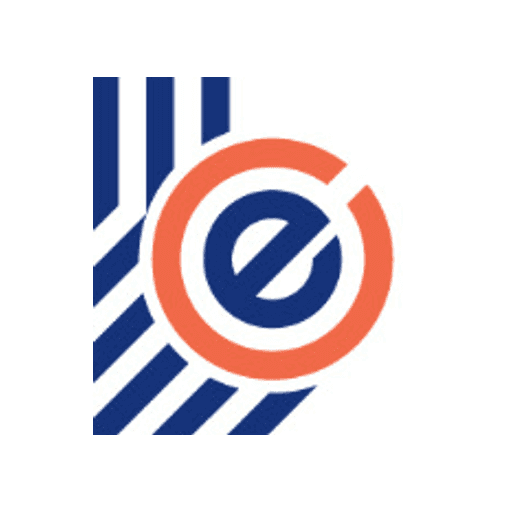
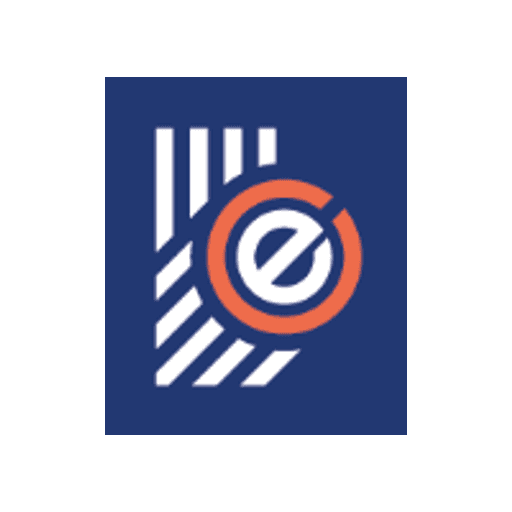
se cambio la paletta de colores

diff --git a/src/components/NavBar.tsx b/src/components/NavBar.tsx
@@ -1,23 +1,34 @@
 
-import { AppBar, CssBaseline, Toolbar,} from "@mui/material"
-import Logo from "../assets/navLogo.jpg"
+import { AppBar, Toolbar, useMediaQuery,} from "@mui/material"
+import Logo from "../assets/logo_nuevo.png"
 import { Outlet } from 'react-router-dom'
 
 
-//
+
 
 
 function NavBar() {
+
+
+
+
+  const matches = useMediaQuery('(min-width:600px)');
+
+
+
+
+
   return (
    <>
-    <header style={{position:"sticky"}}>
-     <AppBar position="sticky" color="info" >
+   
+     <AppBar position="sticky" color="primary" >
      
       <Toolbar sx={{display:"flex", justifyContent:"space-around"}}  >
       <div className="logo-cont" >
       <img src={Logo} alt="Logo de la escuela" className='navbarLogo' />
       </div>
-        <nav className='navbar'>
+        {matches ? (
+          <nav className='navbar'>
           <ul>
             <li><a href="">HOME</a></li>
             <li><a href="">NUESTRA ESCUELA</a></li>
@@ -26,14 +37,16 @@ function NavBar() {
             <li><a href="">NUESTROS PROFESORES</a></li>
             <li><a href="">CONTACTO</a></li>
           </ul>
-        </nav>
+        </nav>) : null
+        }
       </Toolbar>
      </AppBar>
     
-    </header>
+    
     <Outlet/>
    </>
   )
 }
 
 export default NavBar
+

diff --git a/src/assets/css/index.scss b/src/assets/css/index.scss
@@ -12,8 +12,8 @@
     box-sizing: border-box;
 }
 
-    $primary_color:#1a3678;
-    $secondary_color:#f16a4a;
+    $primary_color:#233872;
+    $secondary_color:#ed6b4b;
     
 
 
@@ -36,17 +36,27 @@ nav ul{
     font-family: "Rubik";
     display: flex;
     justify-content: space-evenly;
-    color: $primary_color;
+    color: #fff;
     font-size: 0.8rem;
     list-style: none;
 }
 .navbar a,.navbar:active,.navbar:link{
     text-decoration: none;
-    color:$primary_color;
+    color:#fff;
     font-weight: 600;
+    transition: all ease-in-out 0.35s;
     letter-spacing: 0.12rem;
 }
+
+
+.navbar a:hover{
+    color: $secondary_color;
+}
+
+
+
+
 .landing-home{
     min-height: 100vh;
-    background-color: $primary_color;
+    background-color: green;
 }

diff --git a/src/main.tsx b/src/main.tsx
@@ -15,13 +15,13 @@ const theme = createTheme({
   palette: {
     primary: {
       light: '#ffffff',
-      main: '#1a3678',
+      main: '#233872',
       dark: '#002884',
       contrastText: '#fff',
     },
     secondary: {
       light: '#ff7961',
-      main: '#f16a4a',
+      main: '#ed6b4b',
       dark: '#ba000d',
       contrastText: '#000',
     },
